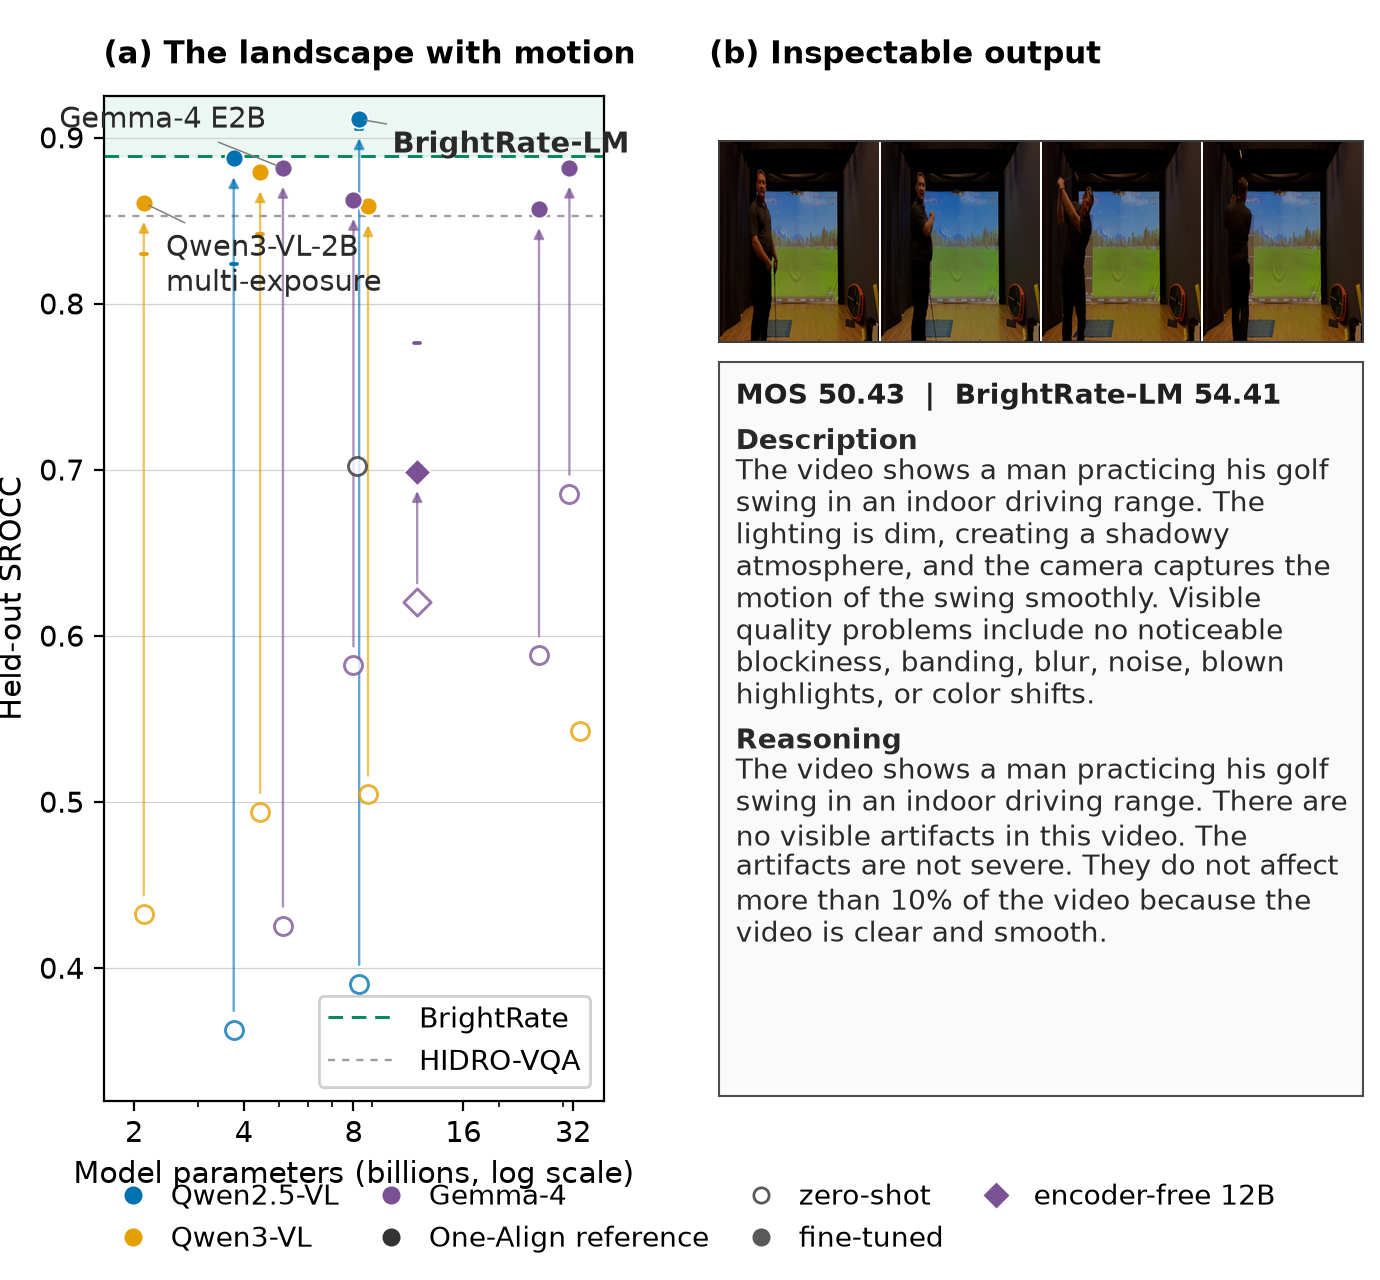
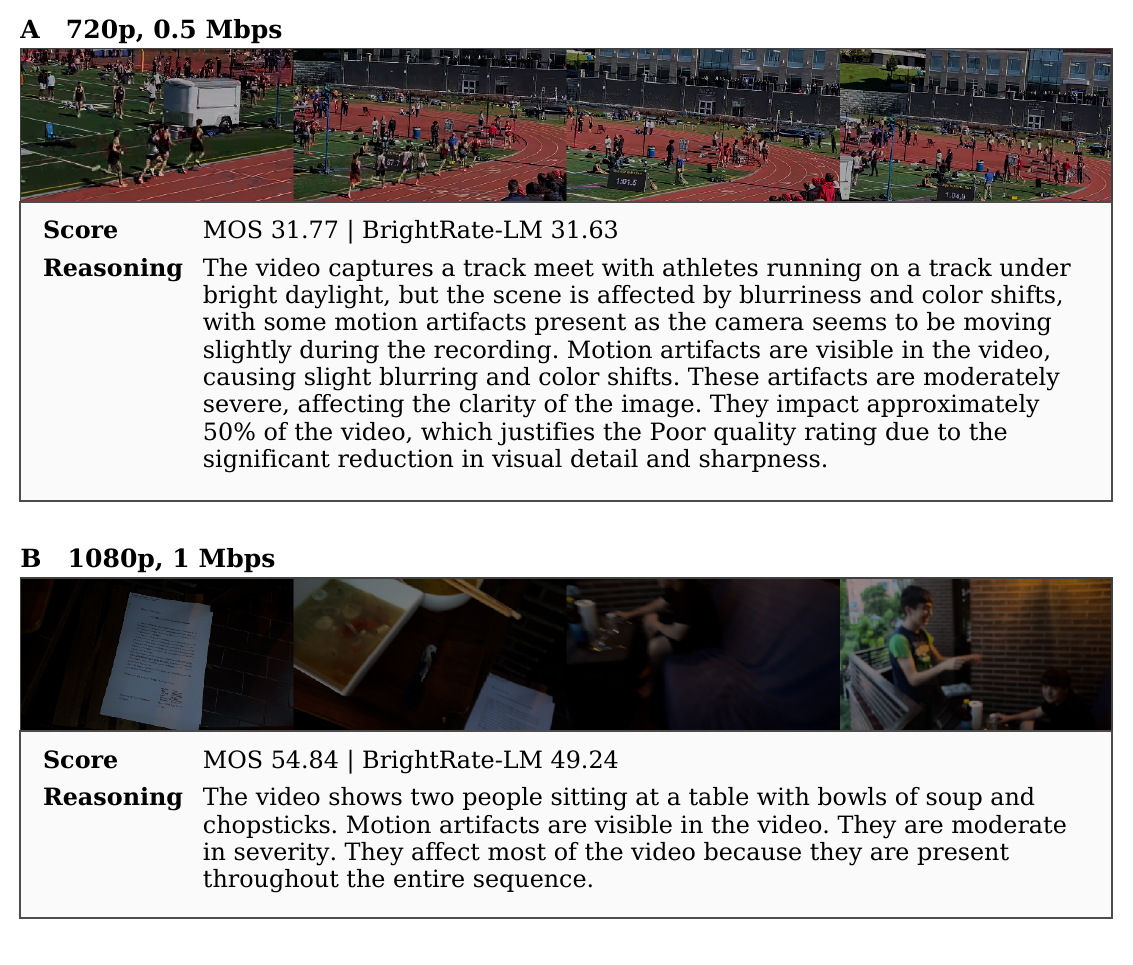
Update project figures to final journal versions

diff --git a/docs/index.html b/docs/index.html
@@ -32,6 +32,12 @@
       <div class="figure-list">
         <figure>
           <div class="figure-media">
+            <img src="assets/hero-overview.png" alt="Grouped bars comparing best zero-shot and adapted checkpoints per family, with an example reasoning output">
+          </div>
+          <figcaption>Adaptation lifts every family; BrightRate-LM pairs its score with generated reasoning.</figcaption>
+        </figure>
+        <figure>
+          <div class="figure-media">
             <img src="assets/hero-pareto.png" alt="Accuracy, memory, and throughput comparisons for selected models">
           </div>
           <figcaption>Accuracy, peak training memory, and inference throughput for the selected models.</figcaption>
@@ -44,15 +50,15 @@
         </figure>
         <figure>
           <div class="figure-media">
-            <img src="assets/training-regime.png" alt="Training loss by optimizer update and SROCC before and after training">
+            <img src="assets/training-regime.png" alt="Training-loss traces colored by input interface">
           </div>
-          <figcaption>Representative runs reduce the training loss, but the held-out SROCC does not increase monotonically with model size.</figcaption>
+          <figcaption>Training-loss traces colored by input interface; shades distinguish model variants.</figcaption>
         </figure>
         <figure>
           <div class="figure-media">
-            <img src="assets/qualitative-output.png" alt="BrightRate-LM accuracy and an example score, description, and reasoning output">
+            <img src="assets/qualitative-output.png" alt="BrightRate-LM example frames with the score pair and generated reasoning">
           </div>
-          <figcaption>The output interface pairs the numeric estimate with a short visual diagnosis.</figcaption>
+          <figcaption>The output interface pairs the numeric estimate with generated reasoning.</figcaption>
         </figure>
       </div>
     </section>
